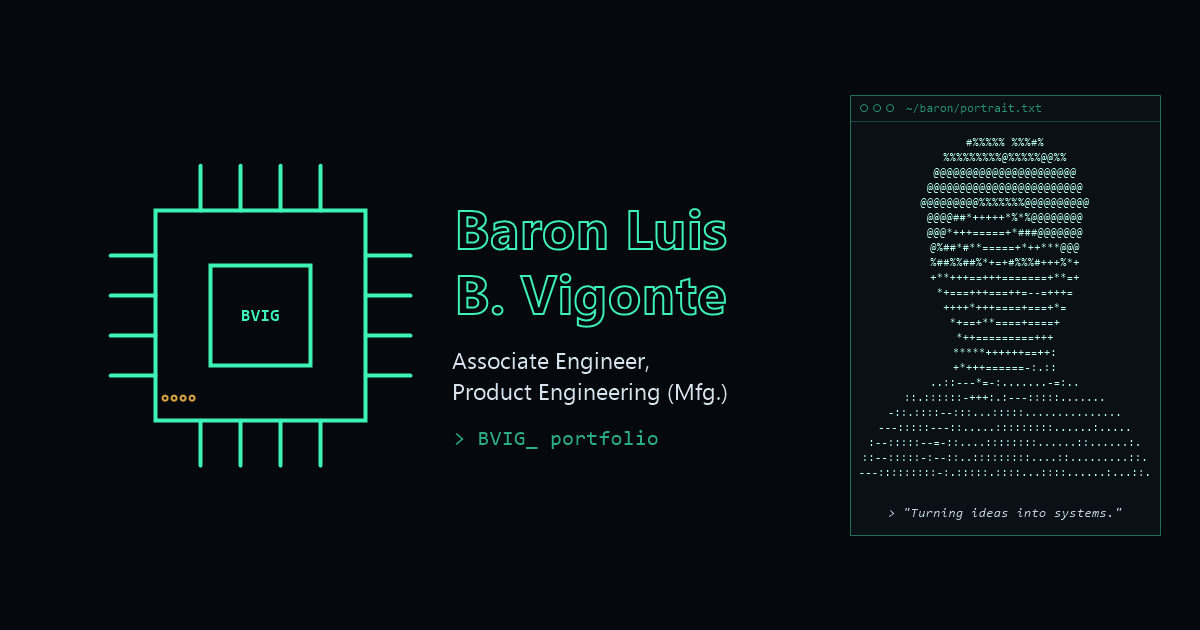
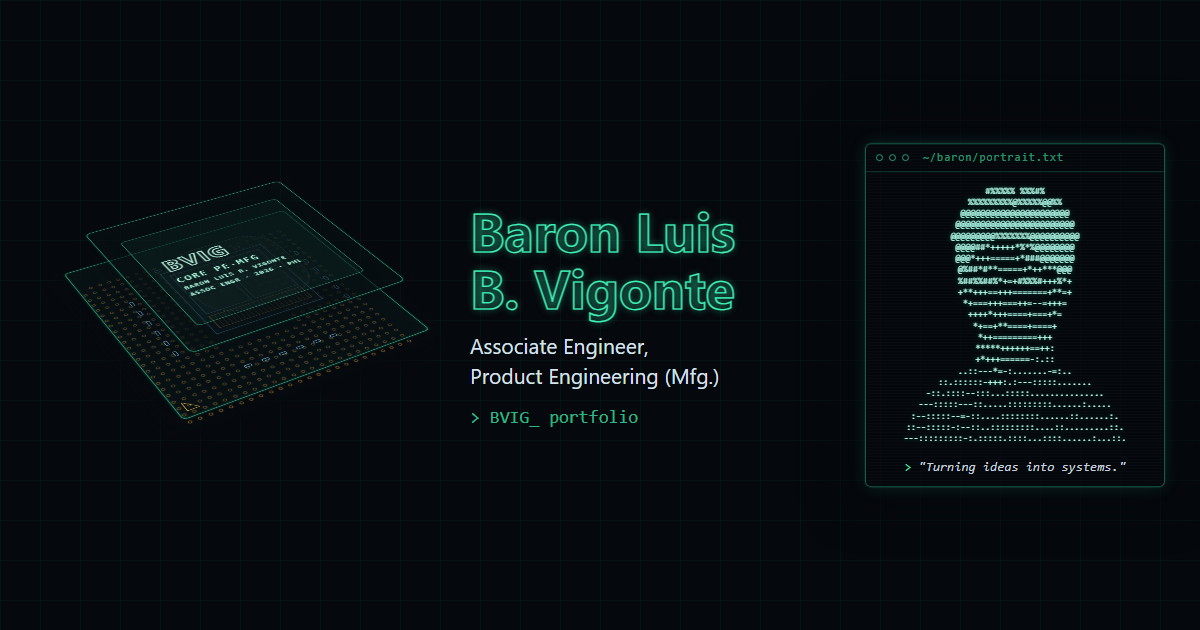
Preview card: render real 3D CPU and ASCII portrait from site CSS

diff --git a/assets/og-card.html b/assets/og-card.html
@@ -1,0 +1,93 @@
+<!DOCTYPE html>
+<html lang="en">
+<head>
+  <meta charset="UTF-8">
+  <link rel="stylesheet" href="../css/base.css">
+  <link rel="stylesheet" href="../css/cpu.css">
+  <link rel="stylesheet" href="../css/portrait.css">
+  <style>
+    html, body { width: 1200px; height: 630px; overflow: hidden; }
+    .scene { position: absolute; inset: 0 auto 0 0; width: 480px; }
+    .chip { scale: .78; }
+    .info { position: absolute; left: 470px; top: 0; bottom: 0; width: 360px; display: flex; flex-direction: column; justify-content: center; gap: 16px; }
+    .info h1 { font: 700 54px/1.05 "Segoe UI", sans-serif; color: transparent; -webkit-text-stroke: 1.2px var(--accent); text-shadow: 0 0 8px rgba(60,242,180,.35); }
+    .info p { font-size: 21px; color: #d6e3ec; line-height: 1.4; }
+    .info code { font: 18px Consolas, monospace; color: rgba(60,242,180,.75); }
+    .panel > figure.portrait { --pw: 300px; left: 865px; }
+  </style>
+</head>
+<body>
+  <div class="scene">
+    <div class="chip" id="chip">
+      <div class="layer pins" data-depth="0" id="pins"></div>
+      <div class="layer substrate" data-depth="1" id="substrate"><span class="tri"></span></div>
+      <div class="layer die" data-depth="2"><div class="die-core"></div></div>
+      <div class="layer tim" data-depth="3"></div>
+      <div class="layer ihs" data-depth="4">
+        <div class="ihs-top">
+          <span class="brand">BVIG</span>
+          <span class="model">CORE&nbsp;PE-MFG</span>
+          <span class="sub">BARON LUIS B. VIGONTE</span>
+          <span class="sn">ASSOC ENGR · 2026 · PHL</span>
+        </div>
+      </div>
+    </div>
+  </div>
+  <div class="info">
+    <h1>Baron Luis<br>B. Vigonte</h1>
+    <p>Associate Engineer,<br>Product Engineering (Mfg.)</p>
+    <code>&gt; BVIG_ portfolio</code>
+  </div>
+  <div class="panel">
+      <figure class="portrait" aria-label="ASCII portrait of Baron Luis B. Vigonte">
+        <div class="portrait-bar"><i></i><i></i><i></i><span>~/baron/portrait.txt</span></div>
+        <pre class="ascii">#%%%%% %%%#%
+%%%%%%%%%@%%%%%@@%%
+@@@@@@@@@@@@@@@@@@@@@@
+@@@@@@@@@@@@@@@@@@@@@@@@
+@@@@@@@@@%%%%%%%@@@@@@@@@@
+@@@@##*+++++*%*%@@@@@@@@
+@@@*+++=====+*###@@@@@@@
+@%##*#**=====+*++***@@@
+%##%%##%*+=+#%%%#+++%*+
++**+++==+++=======+**=+
+*+===+++===++=--=+++=
+++++*+++====+===+*=
+*+==+**====+====+
+*++=========+++
+*****++++++==++:
++*+++======-:.::
+..::---*=-:.......-=:..
+::.::::::-+++:.:---:::::.......
+-::.::::--:::...:::::...............
+---:::::---::.....:::::::::......:.....
+:--:::::--=-::....::::::::......::......:.
+::--:::::-:--::..:::::::::....::.........::.
+---:::::::::-:.:::::.::::...::::......:...::.</pre>
+        <figcaption><span class="prompt">&gt;</span> "Turning ideas into systems."</figcaption>
+      </figure>
+  </div>
+  <script>
+    const pins = document.getElementById('pins');
+    for (let r = 0; r < 24; r++) for (let c = 0; c < 24; c++) {
+      const p = document.createElement('i');
+      p.className = (r > 7 && r < 16 && c > 7 && c < 16) || (!r && !c) ? 'pin off' : 'pin';
+      pins.appendChild(p);
+    }
+    const sub = document.getElementById('substrate');
+    for (let i = 0; i < 4; i++) for (let k = 0; k < 6; k++) {
+      const cap = document.createElement('span');
+      cap.className = 'cap';
+      const a = 105 + k * 24, e = 52;
+      const pos = [[a, e], [340 - e, a], [a, 340 - e], [e - 10, a]][i];
+      cap.style.left = pos[0] + 'px'; cap.style.top = pos[1] + 'px';
+      if (i % 2) cap.style.transform = 'rotate(90deg)';
+      sub.appendChild(cap);
+    }
+    const core = document.querySelector('.die-core');
+    for (let i = 0; i < 4; i++) core.appendChild(document.createElement('i'));
+    const cache = document.createElement('i'); cache.className = 'cache'; core.appendChild(cache);
+    document.querySelectorAll('.layer').forEach(l => l.style.transform = `translateZ(${l.dataset.depth * 22}px)`);
+  </script>
+</body>
+</html>
